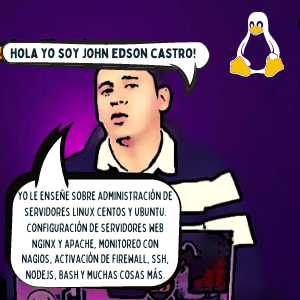
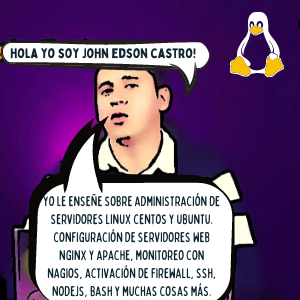
version con dos páginas y mejoras en las imagenes para mejor visivilidad pendiente vínculo entre páginas y remover los important

Changed region(s): [[0.0, 0.39, 0.81, 1.0]]

diff --git a/page-2.css b/page-2.css
@@ -17,9 +17,6 @@ html {
   background: var(--blue-color);
 }
 
-body {
-}
-
 .container {
   background: linear-gradient(to bottom right, var(--green-color), var(--blue-color));
   display: grid;
@@ -36,87 +33,90 @@ body {
   border: 2px solid black !important;
 }
 .container div:nth-child(1) {
-  background-image: url(./assets//intro-300.png);
-  grid-column: 1 / 3;
-  grid-row: 1 / 3;
+  background-image: url(./assets//beatriz-300.png);
+  grid-column: 1 / 2;
+  grid-row: 1 / 1;
 }
 .container div:nth-child(2) {
-  background-image: url(./assets//oscar-300.png);
+  background-image: url(./assets//ricardo-300.png);
+  grid-column: 2 / 3;
+  grid-row: 1 / 1;
+}
+.container div:nth-child(3) {
+  background-image: url(./assets//quetzally-300.png);
   grid-column: 3 / 4;
   grid-row: 1 / 2;
 }
-.container div:nth-child(3) {
-  background-image: url(./assets//john-300.png);
-  grid-column: 3 / 4;
-  grid-row: 2 / 3;
-}
 .container div:nth-child(4) {
-  background-image: url(./assets//freddy-300.png);
-  grid-column: 4 / 6;
-  grid-row: 1 / 3;
+  background-image: url(./assets//rosa-300.png);
+  grid-column: 4 / 5;
+  grid-row: 1 / 2;
 }
 .container div:nth-child(5) {
-  background-image: url(./assets//estefany-300.png);
-  grid-column: 1 / 2;
-  grid-row: 3 / 4;
+  background-image: url(./assets//daniel-300.png);
+  grid-column: 1 / 3;
+  grid-row: 2 / 4;
 }
 .container div:nth-child(6) {
-  background-image: url(./assets//edward-300.png);
-  grid-column: 2 / 3;
-  grid-row: 3 / 4;
+  background-image: url(./assets//anahi-300.png);
+  grid-column: 3 / 5;
+  grid-row: 2 / 4;
 }
 .container div:nth-child(7) {
-  background-image: url(./assets//diego-300.png);
-  grid-column: 3 / 4;
-  grid-row: 3 / 4;
+  background-image: url(./assets//joke-300.png);
+  grid-column: 5 / 6;
+  grid-row: 1 / 2;
 }
 .container div:nth-child(8) {
-  background-image: url(./assets//sacha-300.png);
-  grid-column: 4 / 5;
-  grid-row: 3 / 4;
+  background-image: url(.//assets/cierre-300.png);
+  grid-column: 5 / 6;
+  grid-row: 2 / 3;
 }
 .container div:nth-child(9) {
-  background-image: url(./assets//cont-1-300.png);
+  background-image: url(./assets//cont-2-300.png);
   grid-column: 5 / 6;
   grid-row: 3 / 4;
 }
 @media (max-width: 1024px) {
+  html {
+    background: var(--green-color);
+  }
   .container {
-    background: linear-gradient(to right, var(--green-color), var(--blue-color));
+    background: linear-gradient(to top right, var(--green-color), var(--blue-color));
     grid-template-columns: repeat(3, 1fr);
-    grid-template-rows: repeat(4, 1fr);    
+    grid-template-rows: repeat(4, 1fr);
   }
   .container div:nth-child(1) {
-    grid-column: 1 / 3;
-    grid-row: 1 / 3;
+    grid-column: 1 / 2;
+    grid-row: 1 / 2;
   }
   .container div:nth-child(2) {
+    grid-column: 1 / 2;
+    grid-row: 2 / 3;
+  }
+  .container div:nth-child(3) {
+    grid-column: 2 / 3;
+    grid-row: 1 / 2;
+  }
+  .container div:nth-child(4) {
     grid-column: 3 / 4;
     grid-row: 1 / 2;
   }
-  .container div:nth-child(3) {
+  .container div:nth-child(5) {
+    grid-column: 2 / 3;
+    grid-row: 2 / 3;
+  }
+  .container div:nth-child(6) {
+    grid-column: 1 / 3;
+    grid-row: 3 / 5;
+  }
+  .container div:nth-child(7) {
     grid-column: 3 / 4;
     grid-row: 2 / 3;
   }
-  .container div:nth-child(4) {
-    grid-column: 1 / 2;
-    grid-row: 3 / 4;
-  }
-  .container div:nth-child(5) {
-    grid-column: 2 / 3;
-    grid-row: 3 / 4;
-  }
-  .container div:nth-child(6) {
+  .container div:nth-child(8) {
     grid-column: 3 / 4;
     grid-row: 3 / 4;
-  }
-  .container div:nth-child(7) {
-    grid-column: 1 / 2;
-    grid-row: 4 / 5;
-  }
-  .container div:nth-child(8) {
-    grid-column: 2 / 3;
-    grid-row: 4 / 5;
   }
   .container div:nth-child(9) {
     grid-column: 3 / 4;

diff --git a/page-2.html b/page-2.html
@@ -4,8 +4,8 @@
   <meta charset="UTF-8">
   <meta http-equiv="X-UA-Compatible" content="IE=edge">
   <meta name="viewport" content="width=device-width, initial-scale=1.0">
-  <title>Comic CSS Responsive page 1</title>
-  <link rel="stylesheet" href="./style.css">
+  <title>Comic CSS Responsive page 2</title>
+  <link rel="stylesheet" href="./page-2.css">
 </head>
 <body>
   <main class="container">
